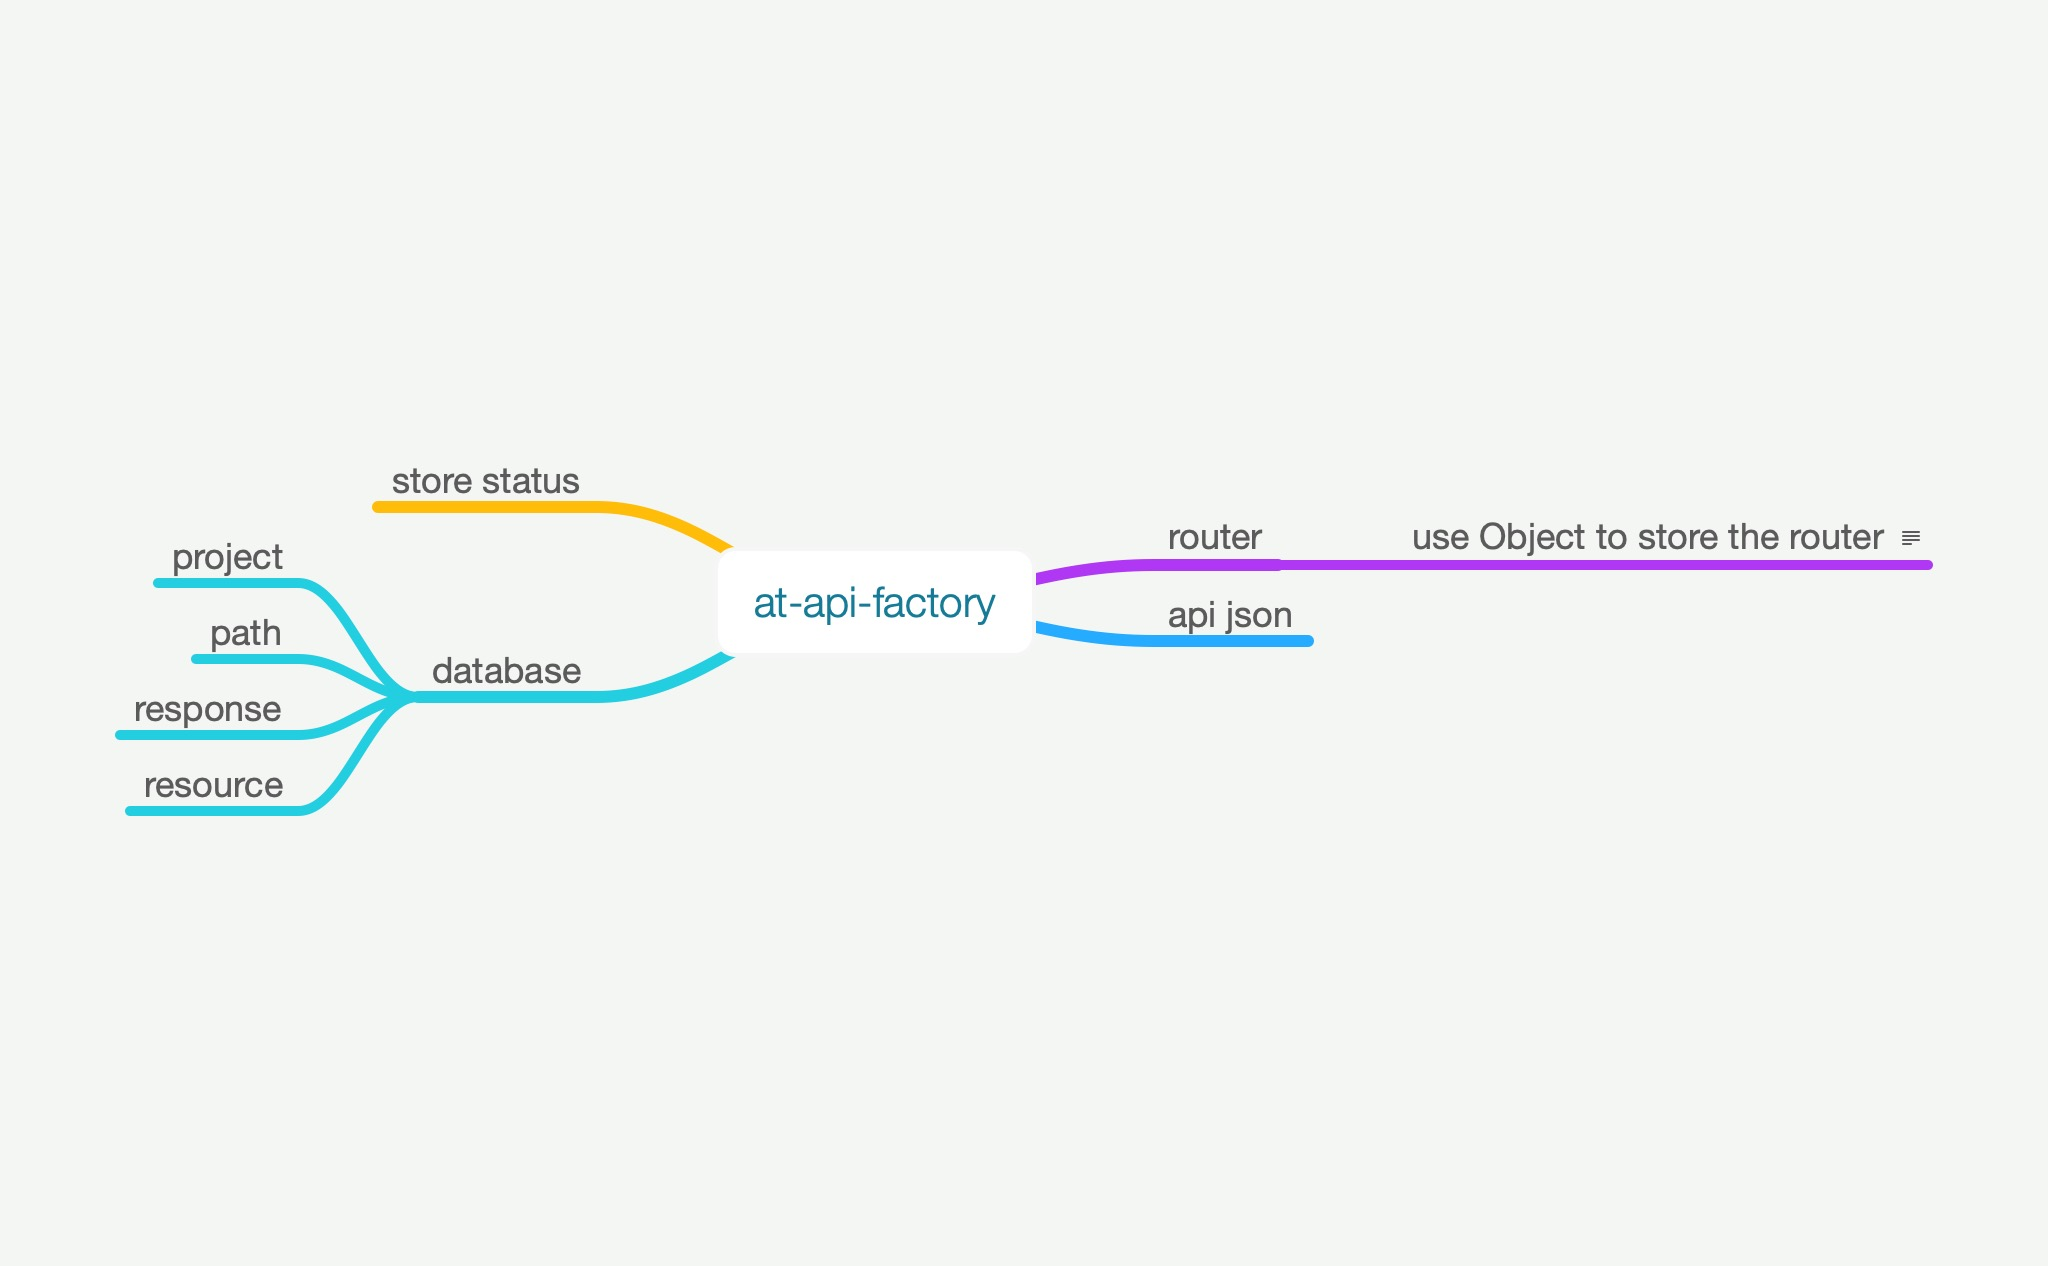
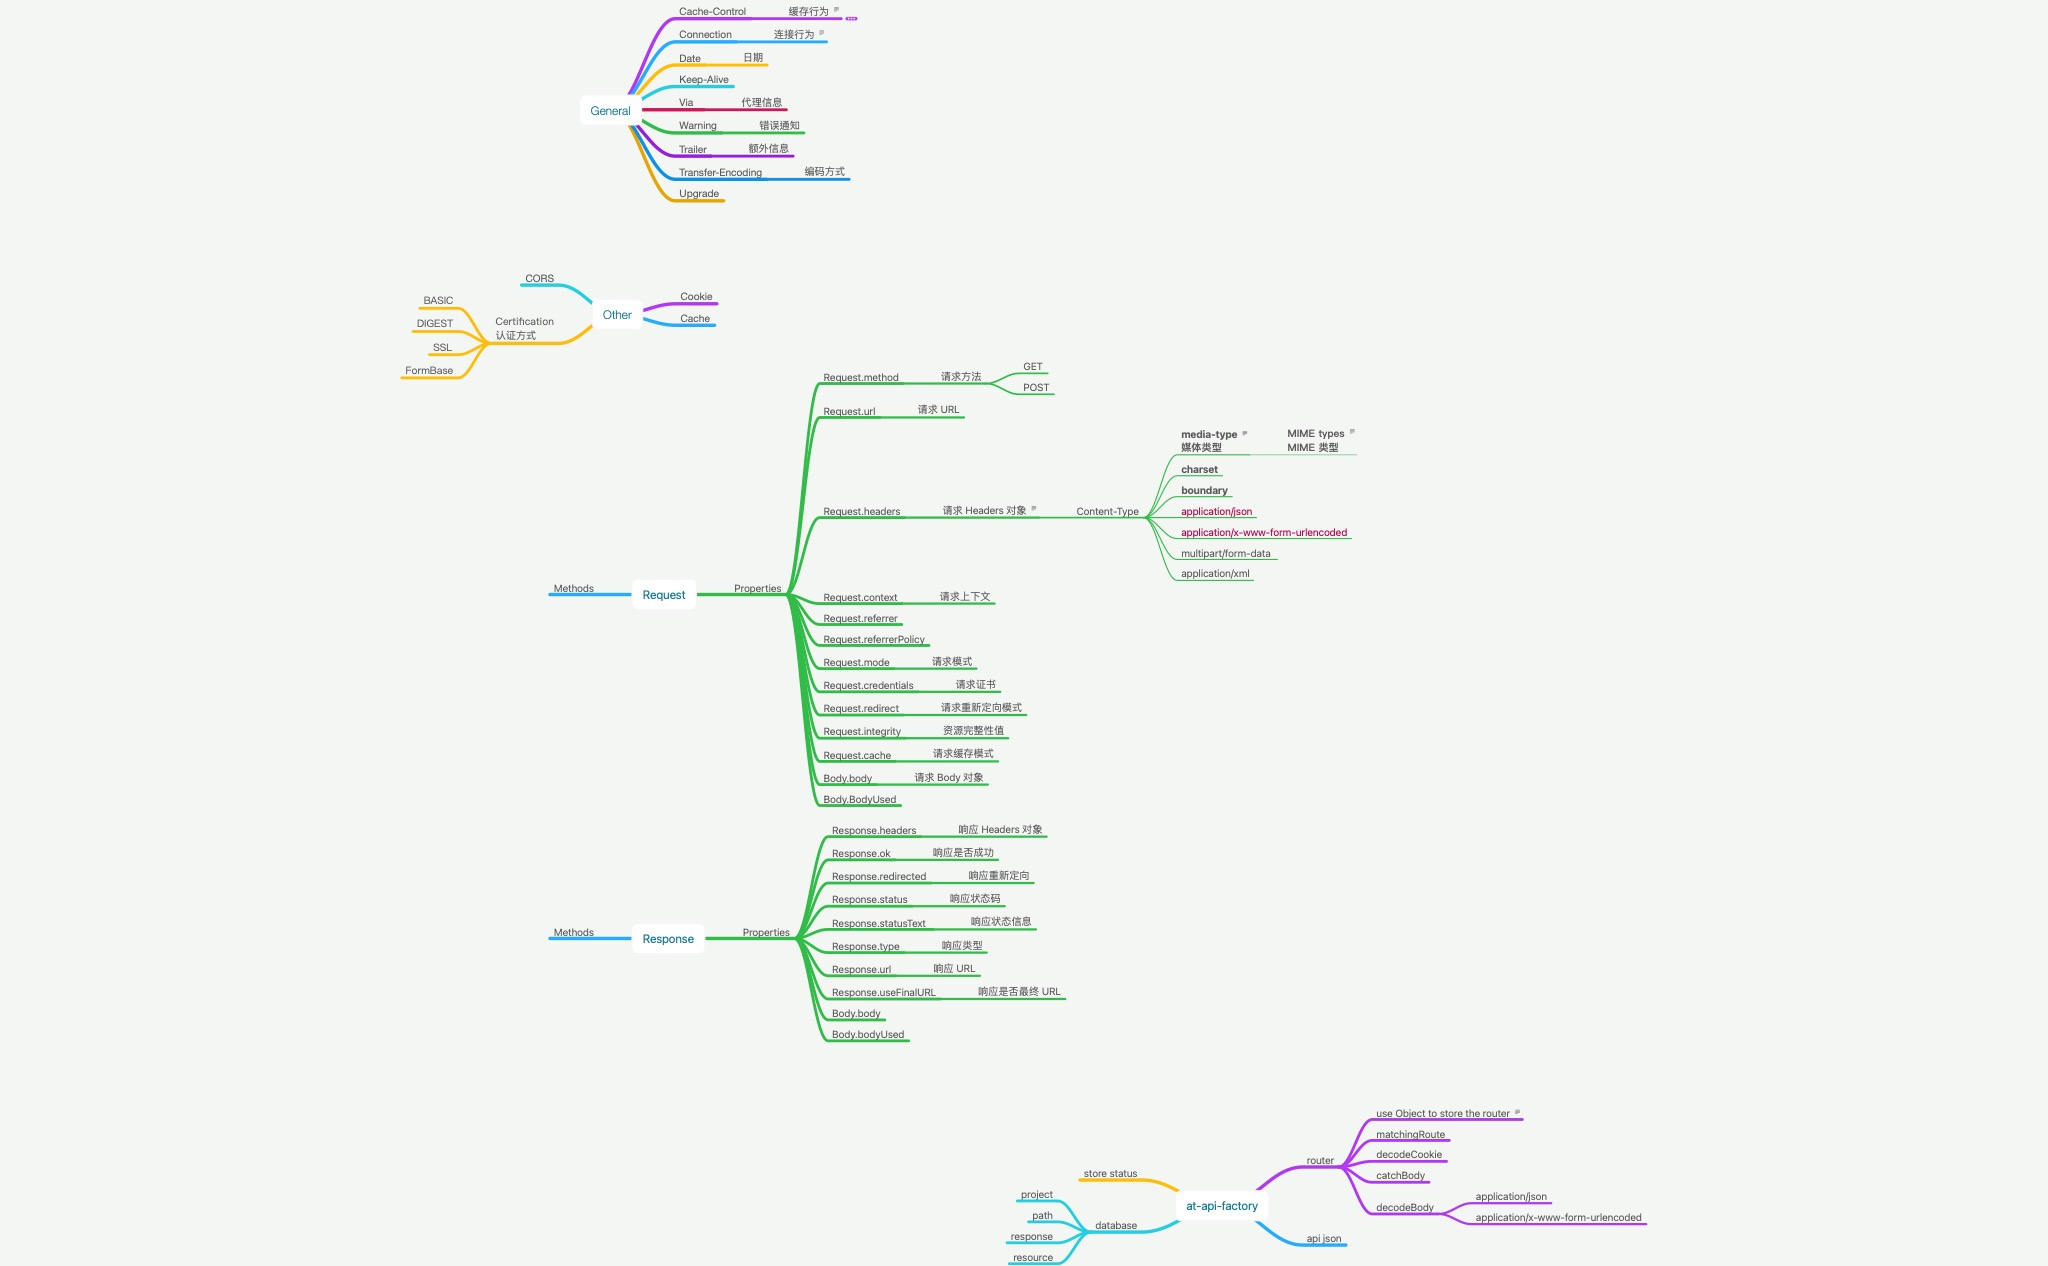
1st ver for matchingRoute

diff --git a/src/router/index.js b/src/router/index.js
@@ -13,62 +13,70 @@ const store = {};
 const router = { ...self };
 
 http.createServer((req, res) => {
-  console.info(`%cRequest URL: %c${req.url}`,
-    'color: #999;',
-    'color: #036');
+  try {
+    console.info(`%cRequest URL: %c${req.url}`,
+      'color: #999;',
+      'color: #036');
 
-  console.log(req);
+    let reqBody = {};
+    const reqBodyBuffer = [];
 
-  const {
-    pathname,
-    query,
-  } = url.parse(req.url, true);
+    req.on('data', (data) => { reqBodyBuffer.push(data); });
 
-  const matchingRoute = pathname.split('/').filter((item) => (item !== '')).reduce((acc, cur, idx, src) => {
-    if (!acc.isMatched) {
-      if (acc.matched[cur] !== undefined) {
-        acc.matched = acc.matched[cur];
-      } else {
-        const dynamic = Object.keys(acc.matched).filter((route) => (/^:/.test(route)));
-        if (dynamic.length) {
-          acc.matched = acc.matched[dynamic[0]];
-          acc.params[dynamic[0].substring(1)] = cur;
-        }
-      }
-      if (idx === src.length - 1) {
-        if (acc.matched[req.method.toLocaleUpperCase()] !== undefined) {
-          acc.matched = acc.matched[req.method.toLocaleUpperCase()];
-          acc.isMatched = true;
-        } else {
-          res.writeHead(405, {
-            Allow: Object.keys(methods)
-              .filter((method) => (Object.keys(acc.matched).includes(method))).join(', '),
-          });
-          res.end();
-        }
-      }
-    }
-
-    return acc;
-  }, {
-    isMatched: false,
-    matched: router,
-    params: {},
-  });
-
-  console.log(matchingRoute);
-
-  if (matchingRoute.isMatched) {
-    matchingRoute.matched.apply(store, [req, res, {
-      path: pathname,
-      params: matchingRoute.params,
+    const {
+      pathname,
       query,
-      hash: '',
-    }]);
-  }
+    } = url.parse(req.url, true);
 
-  res.writeHead(200, {
-    'Content-Type': 'application/json',
-  });
-  res.end(JSON.stringify({}));
+    const matchingRoute = pathname.split('/').filter((item) => (item !== '')).reduce((acc, cur, idx, src) => {
+      if (!acc.isMatched) {
+        if (acc.matched[cur] !== undefined) {
+          acc.matched = acc.matched[cur];
+        } else {
+          const dynamic = Object.keys(acc.matched).filter((route) => (/^:/.test(route)));
+          if (dynamic.length) {
+            acc.matched = acc.matched[dynamic[0]];
+            acc.params[dynamic[0].substring(1)] = cur;
+          }
+        }
+        if (idx === src.length - 1) {
+          if (acc.matched[req.method.toLocaleUpperCase()] !== undefined) {
+            acc.matched = acc.matched[req.method.toLocaleUpperCase()];
+            acc.isMatched = true;
+          } else {
+            res.writeHead(405, {
+              Allow: Object.keys(methods)
+                .filter((method) => (Object.keys(acc.matched).includes(method))).join(', '),
+            });
+            res.end();
+          }
+        }
+      }
+      return acc;
+    }, {
+      isMatched: false,
+      matched: router,
+      params: {},
+    });
+
+    console.log(matchingRoute);
+
+    if (matchingRoute.isMatched) {
+      req.on('end', () => {
+        const reqBodyString = Buffer.concat(reqBodyBuffer).toString();
+        console.log('reqBodyString', reqBodyString);
+        if (reqBodyString) {
+          reqBody = JSON.parse(reqBodyString);
+        }
+        matchingRoute.matched.apply(store, [req, res, {
+          path: pathname,
+          params: matchingRoute.params,
+          query,
+          body: reqBody,
+        }]);
+      });
+    }
+  } catch (error) {
+    console.error(error);
+  }
 }).listen(7788, '127.0.0.1');

diff --git a/src/controllers/self.js b/src/controllers/self.js
@@ -2,18 +2,22 @@ module.exports = {
   api: {
     v1: {
       projects: {
-        GET(req, res) {
+        GET(req, res, obj) {
           console.log(req, res);
+          // console.log(res.setHeader);
+          res.setHeader('Content-Type', 'application/json');
+          res.end(JSON.stringify(obj));
         },
-        POST(req, res) {
+        POST(req, res, obj) {
           console.log(req, res);
+          res.setHeader('Content-Type', 'application/json');
+          res.end(JSON.stringify(obj));
         },
         ':id': {
           GET(req, res, {
             path,
             params,
             query,
-            hash,
             fullPath,
             // matched,
             // name,
@@ -25,9 +29,15 @@ module.exports = {
               path,
               params,
               query,
-              hash,
               fullPath,
             );
+            res.setHeader('Content-Type', 'application/json');
+            res.end(JSON.stringify({
+              path,
+              params,
+              query,
+              fullPath,
+            }));
           },
           paths: {
             GET() {
